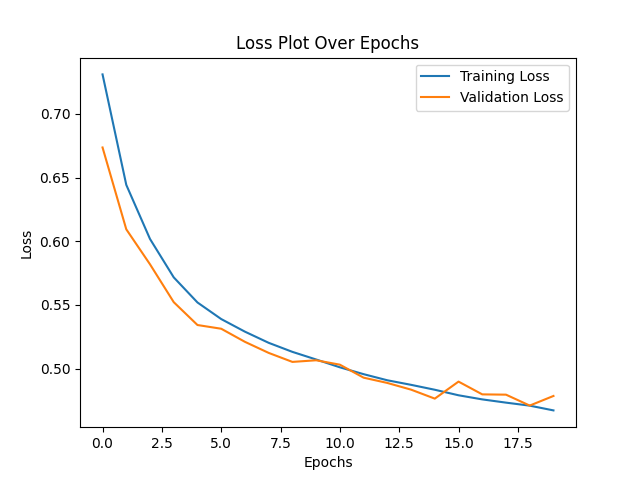
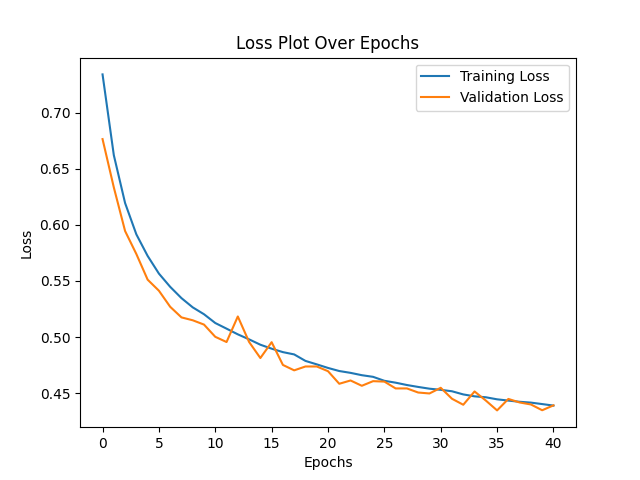
correct 1D_Conv_LSTM_v8 graphs

diff --git a/plottingGraphs.py b/plottingGraphs.py
@@ -225,7 +225,7 @@ print(f"Done loading games {startFile} to {endFile}")
 
 name = "1D_Conv_LSTM_v8"
 
-modelHistoryPklDirectory = "1D_Conv_LSTM_v7_histories"
+modelHistoryPklDirectory = "1D_Conv_LSTM_v8_histories"
 
 
 from keras.callbacks import History
